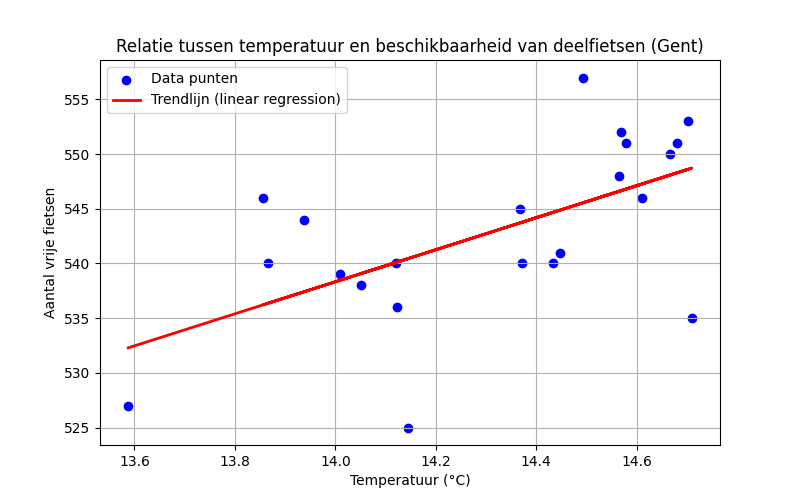
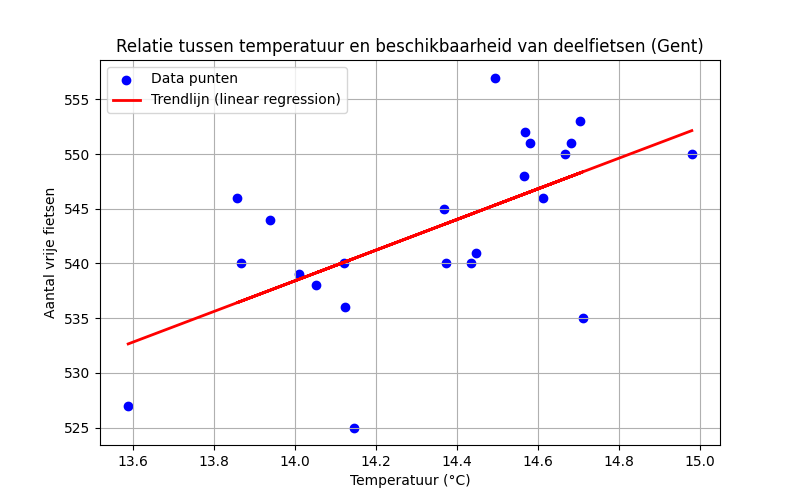
Automatische update 2025-11-14 18:15:13

diff --git a/reports/report.md b/reports/report.md
@@ -1,12 +1,12 @@
 # Data workflow rapport
 
-Datum gegenereerd: 2025-11-14 18:00:19.153059
+Datum gegenereerd: 2025-11-14 18:15:12.053173
 
 ## Grafiek: Vrije fietsen vs Temperatuur
 
 ![Fietsen vs Temp](reports/fiets_vs_temp.png)
 
 ## Basisstatistieken
-- Gemiddelde temperatuur: 14.32 °C
+- Gemiddelde temperatuur: 14.35 °C
 - Gemiddeld aantal vrije fietsen: 543
-- Correlatie: 0.63
+- Correlatie: 0.64
